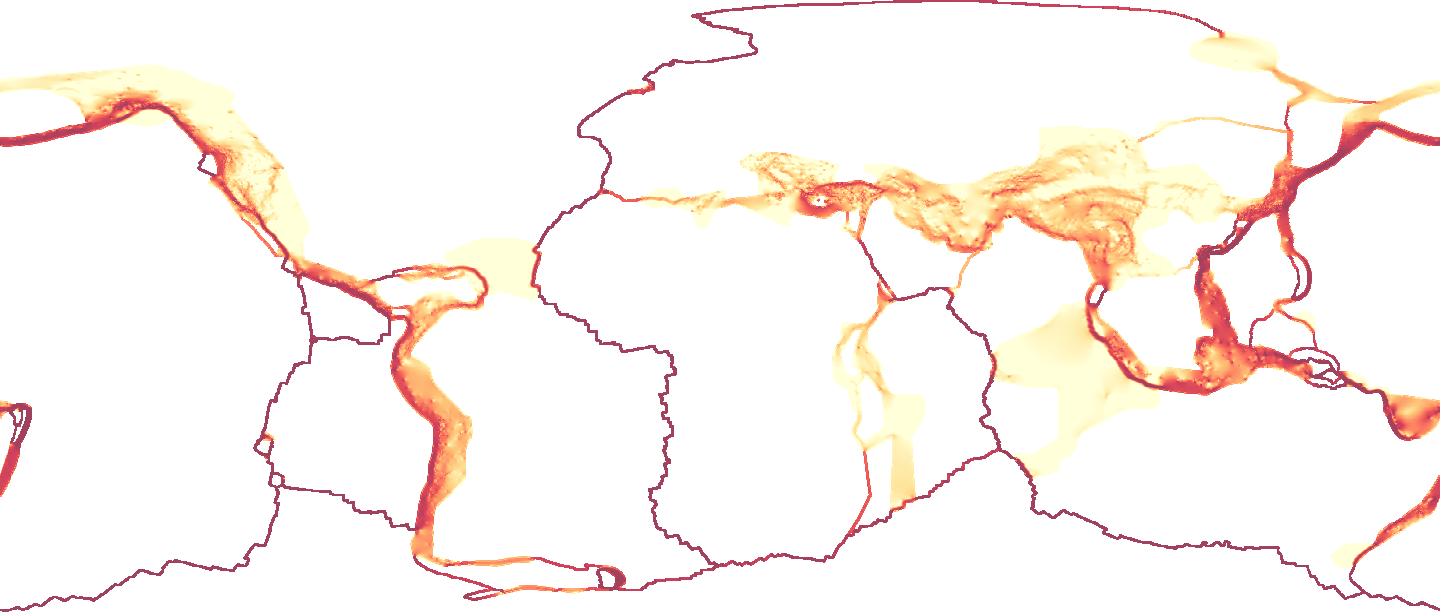
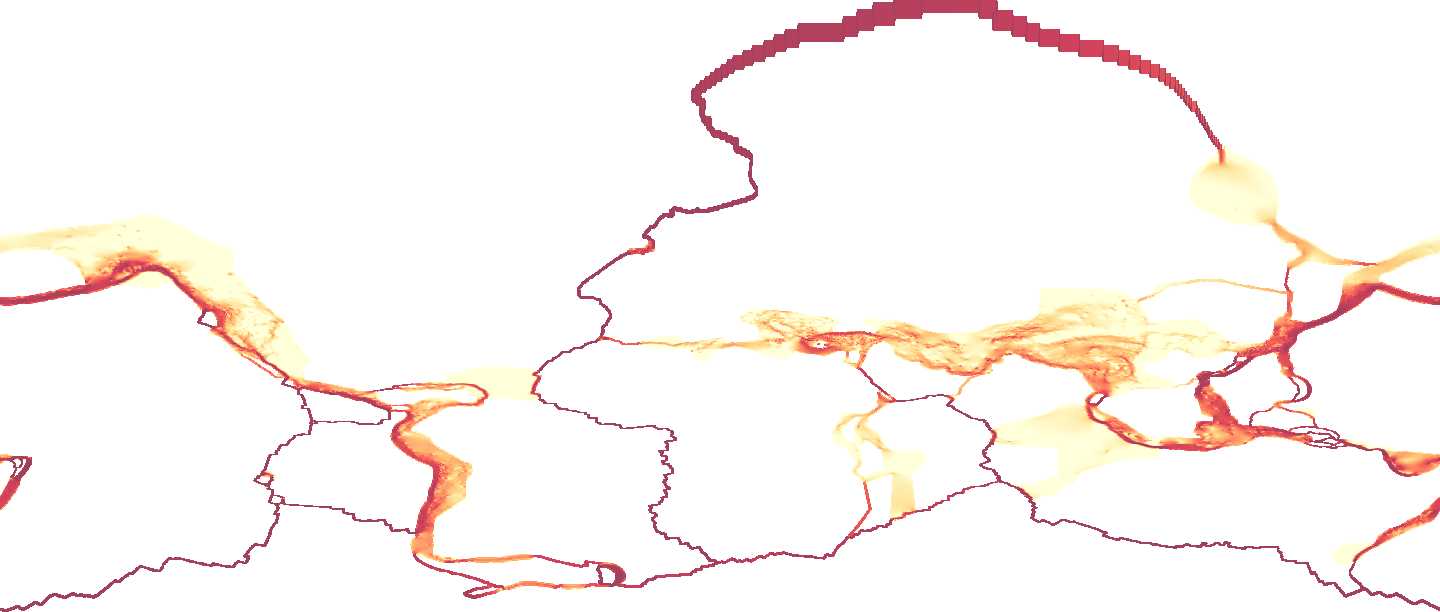
Global strain-rate katmanında Mercator projeksiyon hatası düzeltildi
Kullanıcı canlı sitede Türkiye üzerinde strain katmanının "boş" göründüğünü
bildirdi. Kök neden araştırması: PNG dosyasının kendisi doğruydu (Python
ve canvas ile piksel piksel doğrulandı) — sorun Leaflet L.imageOverlay'in
görüntüyü verilen köşeler arasında haritanın KENDİ Web Mercator
projeksiyonunda doğrusal germesiydi. PNG satırları düz ENLEM aralığıyla
üretilmişti (np.linspace(maxlat,minlat,...)) — Türkiye'nin dar enlem
aralığında (34-43°, ~9°) bu fark görünmezdi, ama global 153°'lik aralıkta
(-66.2°..86.8°) sistematik bir düşey kaymaya yol açtı.

Düzeltme: piksel satırları artık düz enlemde değil, ters-Mercator ile
hesaplanmış GERÇEK enlemlerde örnekleniyor (Leaflet'in görüntüyü gereceği
şekilde eşleşsin diye). DOM/canvas seviyesinde doğrulandı: Ankara artık
doğru pikselde turuncu (252,108,50) çıkıyor.

Ayrı bulgu (hata değil): Türkiye'nin iç kesimlerinin (örn. Konya) "boş"
görünmesi gerçek düşük-strain sinyali (açık sarı, ~7.9 ns/yıl) + %75
katman opaklığı + PNG'nin kendi alfa'sının (190/255) üst üste binmesinden
kaynaklanıyor — koyu taban haritada düşük kontrast. Kod değiştirilmedi,
kullanıcıya raporlandı (renk/opaklık ayarına önceki turda dokunmama
kararı korundu).

diff --git a/scripts/build_strain_rate_layer_global.py b/scripts/build_strain_rate_layer_global.py
@@ -83,9 +83,34 @@ def main():
           f'p99={np.percentile(eff,99):.1f} max={eff.max():.1f} ns/yr')
 
     # Sabit ızgara VARSAYILMAZ — gerçek scattered-point en-yakın-komşu (KDTree).
+    #
+    # KRİTİK PROJEKSİYON DÜZELTMESİ: Leaflet L.imageOverlay, görüntüyü verilen
+    # iki köşe arasında haritanın KENDİ Web Mercator projeksiyonunda doğrusal
+    # gerer — görüntünün pikselleri düz ENLEM aralıklarıyla değil, Web Mercator
+    # Y ekseninde eşit aralıklı olmalıdır. İlk denemede grid_lats basitçe
+    # np.linspace(maxlat,minlat,...) ile düz enlemde üretilmişti — Türkiye'nin
+    # dar enlem aralığında (34-43°, ~9°) bu yaklaşım görünmez bir hataydı, ama
+    # global 153°'lik aralıkta (-66.2°..86.8°) BÜYÜK bir düşey kaymaya yol açtı
+    # (canlı testte fark edildi: Türkiye'nin gerçek strain verisi haritada
+    # Suriye'nin üzerinde görünüyordu — PNG dosyasının kendisi doğruydu,
+    # sorun sadece Leaflet'in görüntüyü gerdiği projeksiyon varsayımıydı).
+    # Çözüm: her piksel satırının GERÇEK enlemini ters-Mercator ile hesaplayıp
+    # o enlemde örnekleme yapmak — böylece Leaflet doğrusal gerince sonuç
+    # doğru enlemlere denk geliyor.
+    def lat_to_mercY(lat_deg):
+        phi = np.radians(lat_deg)
+        return np.log(np.tan(np.pi / 4 + phi / 2))
+
+    def mercY_to_lat(y):
+        return np.degrees(2 * np.arctan(np.exp(y)) - np.pi / 2)
+
+    y_north = lat_to_mercY(BOUNDS['maxlat'])
+    y_south = lat_to_mercY(BOUNDS['minlat'])
+    grid_y = np.linspace(y_north, y_south, GRID_H)  # Mercator Y'de eşit aralık
+    grid_lats = mercY_to_lat(grid_y)  # bu Y'lere karşılık gelen GERÇEK enlemler
+
     tree = cKDTree(np.column_stack([lats, lons]))
     grid_lons = np.linspace(BOUNDS['minlon'], BOUNDS['maxlon'], GRID_W)
-    grid_lats = np.linspace(BOUNDS['maxlat'], BOUNDS['minlat'], GRID_H)  # kuzey üstte
     glon, glat = np.meshgrid(grid_lons, grid_lats)
     query_pts = np.column_stack([glat.ravel(), glon.ravel()])
     dist, idx = tree.query(query_pts, k=1)
@@ -113,7 +138,11 @@ def main():
         'method': f'GSRM resmi noktaları, sabit ızgara VARSAYILMADI (Türkiye katmanından farklı — '
                   f'global çözünürlük bölgeye göre değişiyor). scipy.spatial.cKDTree ile gerçek '
                   f'en-yakın-komşu araması, MAX_DIST_DEG={MAX_DIST_DEG}° üstü mesafeler şeffaf '
-                  f'bırakıldı (var olmayan strain sinyali icat edilmedi, büyütme/yumuşatma da yok).',
+                  f'bırakıldı (var olmayan strain sinyali icat edilmedi, büyütme/yumuşatma da yok). '
+                  f'Piksel satırları düz enlemde değil, ters-Mercator ile hesaplanmış gerçek '
+                  f'enlemlerde örneklendi (Leaflet L.imageOverlay görüntüyü Web Mercator\'da '
+                  f'doğrusal gerdiği için — bkz. script içi yorum, canlı testte fark edilip '
+                  f'düzeltilen bir projeksiyon hatası).',
         'z_field': 'effective strain rate (max(|e1|,|e2|))',
         'units': 'nanostrain/yr (1e-9/yr)',
         'color_scale': {'min': VMIN, 'max': VMAX, 'type': 'log', 'colormap': 'YlOrRd'},
